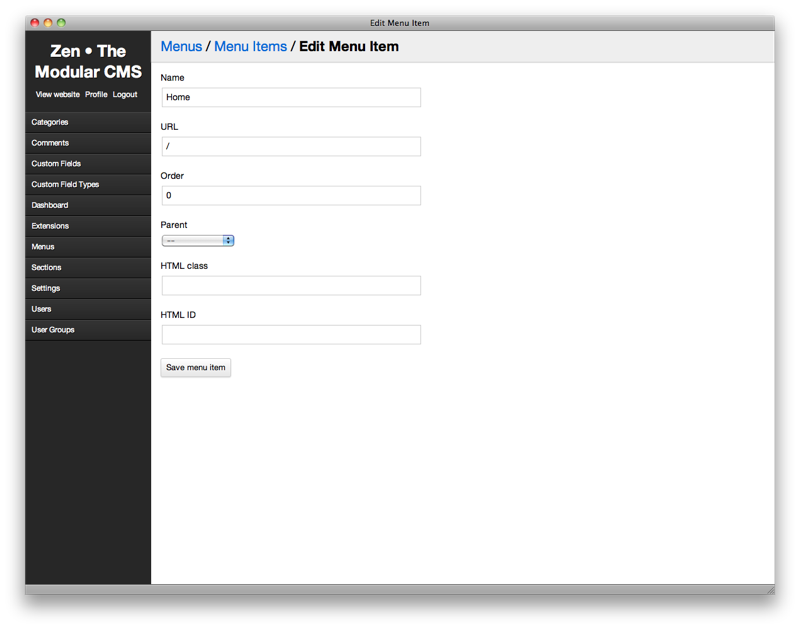
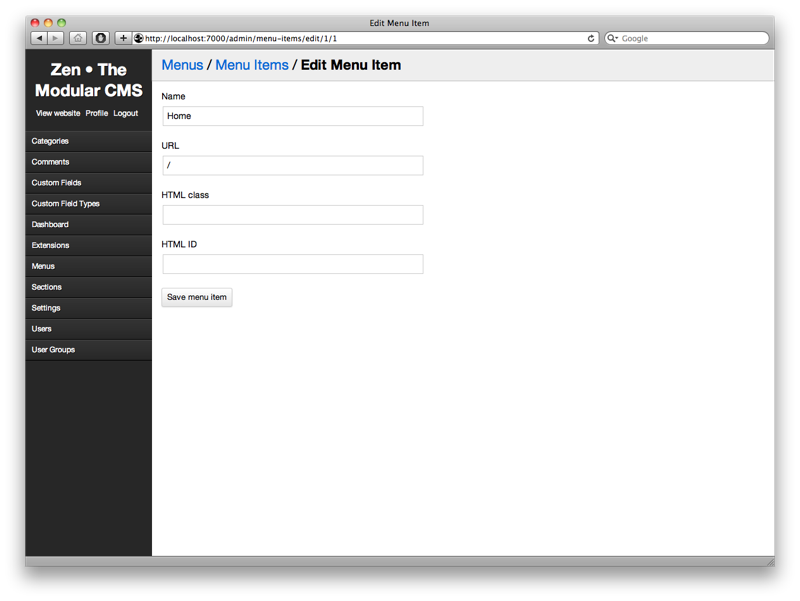
Updated the menu item documentation.

diff --git a/lib/zen/package/menus/lib/menus/controller/menu_items.rb b/lib/zen/package/menus/lib/menus/controller/menu_items.rb
@@ -2,17 +2,29 @@ module Menus
   #:nodoc:
   module Controller
     ##
-    # The MenuItems controller allows users to manage menu items of a menu
-    # group. In order to manage menu items you must first navigate to a menu
-    # group and click the link "Manage menu items" (see
-    # {Menus::Controller::Menus} for more information). Once you've reached this
-    # page you'll see an overview that looks like the image below.
+    # Managing menu items is divided into two separate parts: specifying the
+    # order and hierarchy and editing individual menu items such as their names
+    # and URLs. In order to manage a set of menu items you must navigate to the
+    # menu to which the items belong and then click on "Manage menu items". Once
+    # you've clicked this link you'll be presented with a page that looks
+    # somewhat like the one shown in the image below.
     #
     # ![Menu Items](../../_static/menus/menu_items.png)
     #
-    # Editing or creating a menu item can be done by either clicking the name of
-    # a menu item or by clicking the "Add menu item" button. In both cases
-    # you'll end up with a form looking like the one in the following image:
+    # This overview allows you to sort and specify the hierarchy of menu items,
+    # editing individual items can be done by clicking on the name.
+    #
+    # Both sorting and creating the hierarchy is done by dragging the menu
+    # items. By dragging them up or down you can change the order, by dragging
+    # them to the left or right you can specify the parent element of a set of
+    # menu items. For example, in the image below the "User Guide" item has been
+    # set to be a child item of the "Home" item.
+    #
+    # ![Menu Item Hierarchy](../../_static/menus/menu_item_hierarchy.png)
+    #
+    # If you want to edit an individual menu item you can do so by clicking on
+    # the name of the item, once done you'll be presented with the following
+    # form:
     #
     # ![Edit Menu Item](../../_static/menus/edit_menu_item.png)
     #
@@ -20,10 +32,6 @@ module Menus
     #
     # * **Name**: the name of the menu item.
     # * **URL**: the URL of the menu item.
-    # * **Order**: a number that indicates the sort order when the menu is
-    #   built.
-    # * **Parent**: a parent menu item. This allows you to easily create sub
-    #   menus.
     # * **HTML class**: a space separated list of classes to apply to the HTML
     #   element.
     # * **HTML ID**: a single ID to apply to the HTML element.
